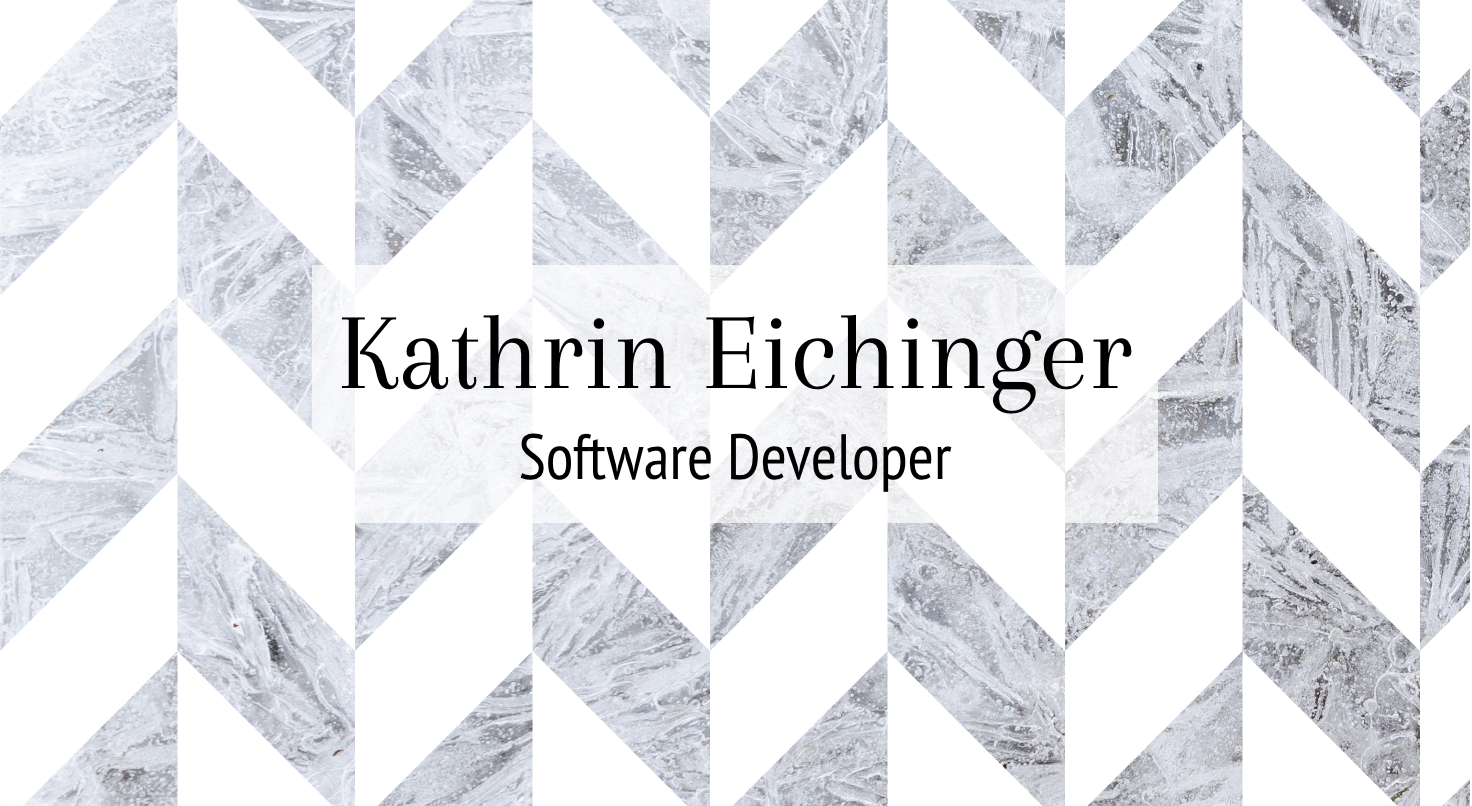
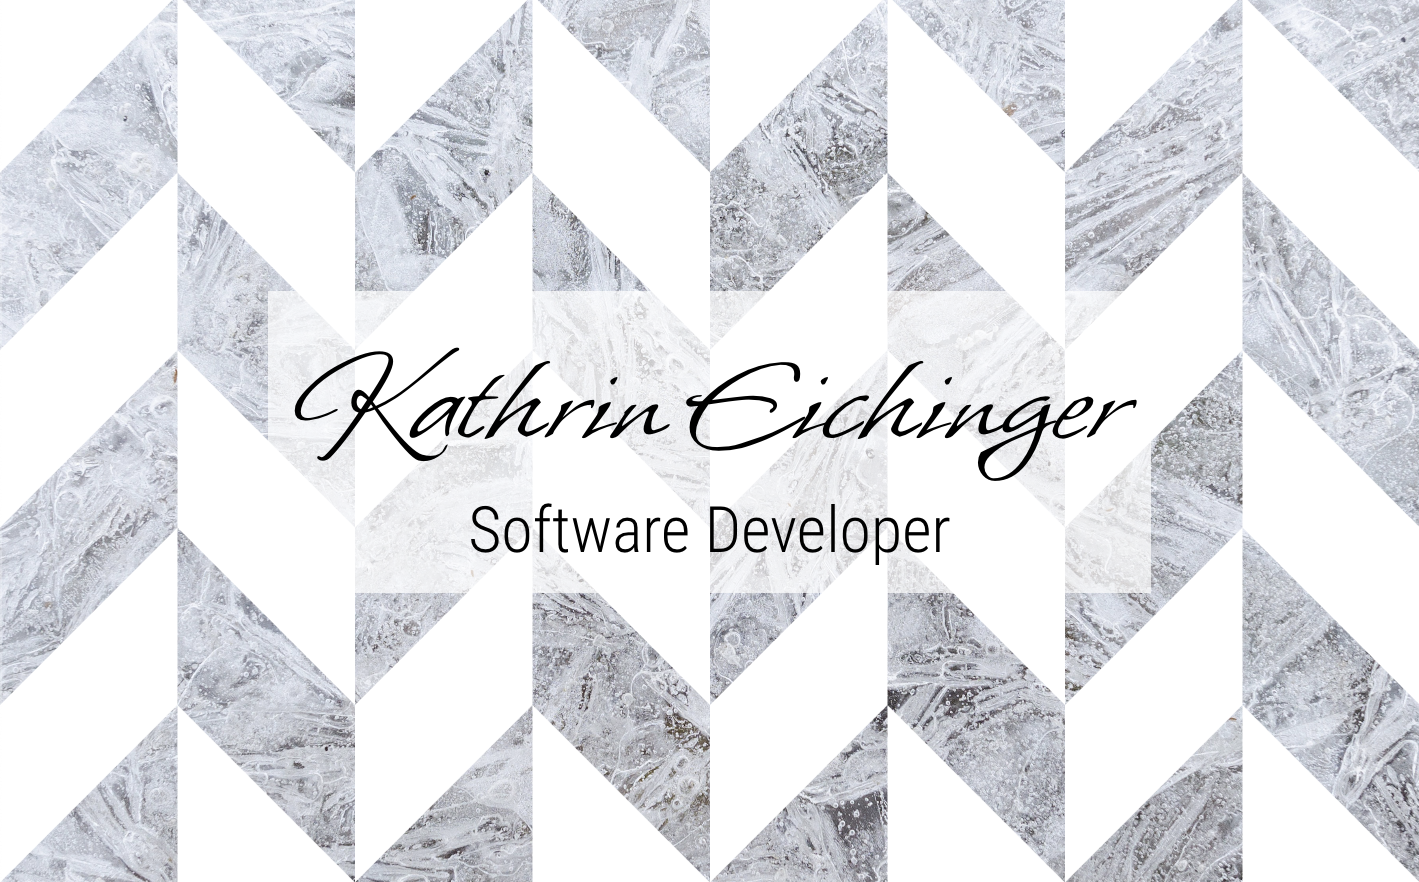
change fonts

diff --git a/public/index.html b/public/index.html
@@ -4,10 +4,8 @@
     <meta charset="utf-8" />
     <link rel="preconnect" href="https://fonts.googleapis.com" />
     <link rel="preconnect" href="https://fonts.gstatic.com" crossorigin />
-    <link
-      href="https://fonts.googleapis.com/css2?family=Arapey:ital@0;1&family=PT+Sans+Narrow:wght@400;700&display=swap"
-      rel="stylesheet"
-    />
+    <link href="https://fonts.googleapis.com/css2?family=Whisper&display=swap" rel="stylesheet">
+    <link href="https://fonts.googleapis.com/css2?family=Roboto+Condensed:ital,wght@0,300;0,400;1,300;1,400&display=swap" rel="stylesheet">
     <script
       src="https://kit.fontawesome.com/423d01f89f.js"
       crossorigin="anonymous"

diff --git a/src/components/Sections.module.css b/src/components/Sections.module.css
@@ -1,14 +1,14 @@
 .sectionContainer {
   height: calc(100vh - 4rem);
   font-size: 3rem;
-  width: calc(50vw - 4rem);
-  margin: 2rem;
+  width: calc(50vw - 8rem);
+  margin: 2rem 4rem;
   text-align: left;
 }
 
 .sectionHeader {
-  font-family: "Arapey", serif;
-  font-size: 2.7rem;
+  font-family: 'Whisper', cursive;
+  font-size: 3.5rem;
   padding-bottom: 1rem;
 }
 
@@ -19,6 +19,6 @@
 
 @media screen and (max-width: 1023px) {
   .sectionContainer {
-    width: calc(100vw - 4rem);
+    width: calc(100vw - 8rem);
   }
 }

diff --git a/src/components/Header.module.css b/src/components/Header.module.css
@@ -2,7 +2,7 @@
   background-image: url(../images/Ice-background.png);
   background-size: cover;
   background-repeat: no-repeat;
-  background-attachment: fixed;
+  /* background-attachment: fixed; */
   background-position: center;
   height: 100vh;
   width: 50vw;
@@ -31,8 +31,8 @@
 }
 
 .title {
-  font-family: "Arapey", serif;
-  font-size: 3.5rem;
+  font-family: 'Whisper', cursive;
+  font-size: 4.3rem;
 }
 
 .subtitle {

diff --git a/src/App.css b/src/App.css
@@ -4,6 +4,7 @@
   flex-direction: row;
   align-items: center;
   justify-content: flex-start;
-  font-family: "PT Sans Narrow", sans-serif;
+  font-family: 'Roboto Condensed', sans-serif;
+  font-weight: 300;
   font-size: 1rem;
 }

diff --git a/src/index.css b/src/index.css
@@ -1,6 +1,5 @@
 body {
   margin: 0;
-  font-family: "Arapey", serif;
   -webkit-font-smoothing: antialiased;
   -moz-osx-font-smoothing: grayscale;
   width: calc(4 * 50vw);
